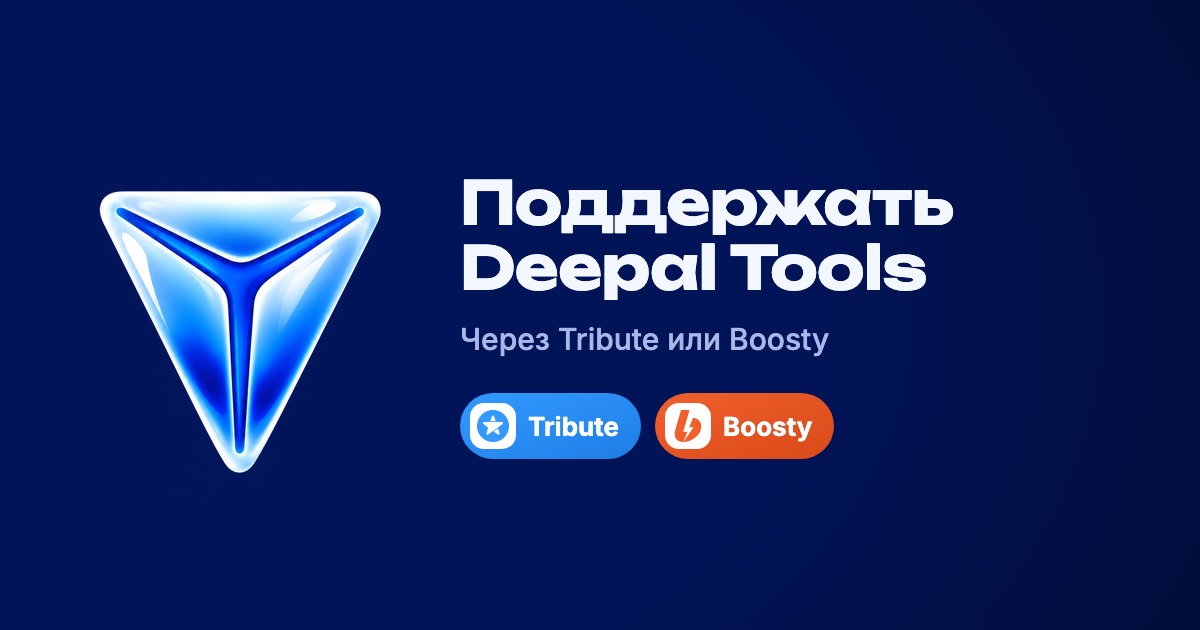
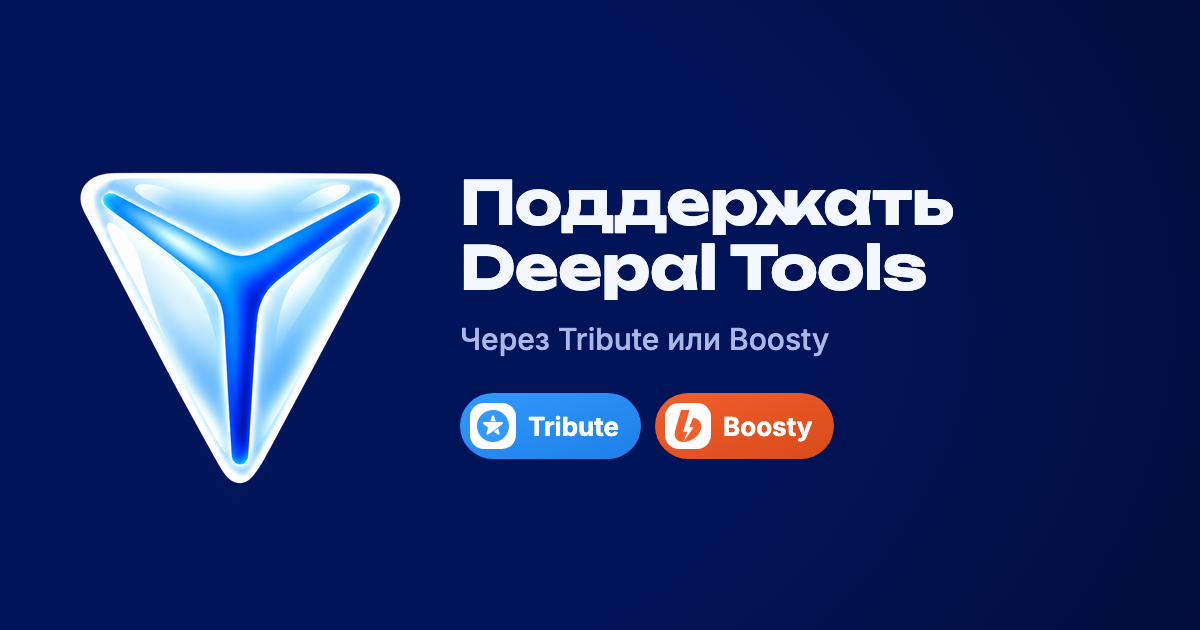
Новая иконка Deepal Tools (по центру круга)

Changed region(s): [[0.0617, 0.2714, 0.3392, 0.7841]]

diff --git a/donate/index.html b/donate/index.html
@@ -12,12 +12,12 @@
 <meta property="og:site_name" content="Deepal Tools">
 <meta property="og:url" content="https://deepaltools.github.io/donate/">
 <!-- Широкая обложка 1200×630: с ней Telegram и другие показывают большое превью ссылки. -->
-<meta property="og:image" content="https://deepaltools.github.io/assets/preview-donate.png?v=2">
+<meta property="og:image" content="https://deepaltools.github.io/assets/preview-donate.png?v=3">
 <meta property="og:image:width" content="1200">
 <meta property="og:image:height" content="630">
 <meta name="twitter:card" content="summary_large_image">
-<link rel="icon" href="../assets/deepal-tools.png?v=2">
-<link rel="apple-touch-icon" href="../assets/deepal-tools.png?v=2">
+<link rel="icon" href="../assets/deepal-tools.png?v=3">
+<link rel="apple-touch-icon" href="../assets/deepal-tools.png?v=3">
 <link rel="preconnect" href="https://fonts.googleapis.com">
 <link rel="preconnect" href="https://fonts.gstatic.com" crossorigin>
 <link href="https://fonts.googleapis.com/css2?family=Inter:wght@400;500;600;700&family=Unbounded:wght@500;700&display=swap" rel="stylesheet">
@@ -265,7 +265,7 @@
 </head>
 <body>
 <main>
-  <img class="mark" src="../assets/deepal-tools.png?v=2" alt="Deepal Tools" width="300" height="300">
+  <img class="mark" src="../assets/deepal-tools.png?v=3" alt="Deepal Tools" width="300" height="300">
 
   <h1>Поддержать Deepal&nbsp;Tools</h1>
   <p class="lede">Все приложения бесплатные. Если они вам пригодились, выберите, как поддержать проект.</p>

diff --git a/index.html b/index.html
@@ -12,12 +12,12 @@
 <meta property="og:site_name" content="Deepal Tools">
 <meta property="og:url" content="https://deepaltools.github.io/">
 <!-- Широкая обложка 1200×630: с ней Telegram и другие показывают большое превью ссылки. -->
-<meta property="og:image" content="https://deepaltools.github.io/assets/preview.png?v=2">
+<meta property="og:image" content="https://deepaltools.github.io/assets/preview.png?v=3">
 <meta property="og:image:width" content="1200">
 <meta property="og:image:height" content="630">
 <meta name="twitter:card" content="summary_large_image">
-<link rel="icon" href="assets/deepal-tools.png?v=2">
-<link rel="apple-touch-icon" href="assets/deepal-tools.png?v=2">
+<link rel="icon" href="assets/deepal-tools.png?v=3">
+<link rel="apple-touch-icon" href="assets/deepal-tools.png?v=3">
 <link rel="preconnect" href="https://fonts.googleapis.com">
 <link rel="preconnect" href="https://fonts.gstatic.com" crossorigin>
 <link href="https://fonts.googleapis.com/css2?family=Inter:wght@400;500;600;700&family=Unbounded:wght@500;700&display=swap" rel="stylesheet">
@@ -260,7 +260,7 @@
 </head>
 <body>
 <main>
-  <img class="mark" src="assets/deepal-tools.png?v=2" alt="Deepal Tools" width="300" height="300">
+  <img class="mark" src="assets/deepal-tools.png?v=3" alt="Deepal Tools" width="300" height="300">
 
   <h1>Deepal&nbsp;Tools</h1>
   <p class="lede">Бесплатные приложения для Deepal</p>
